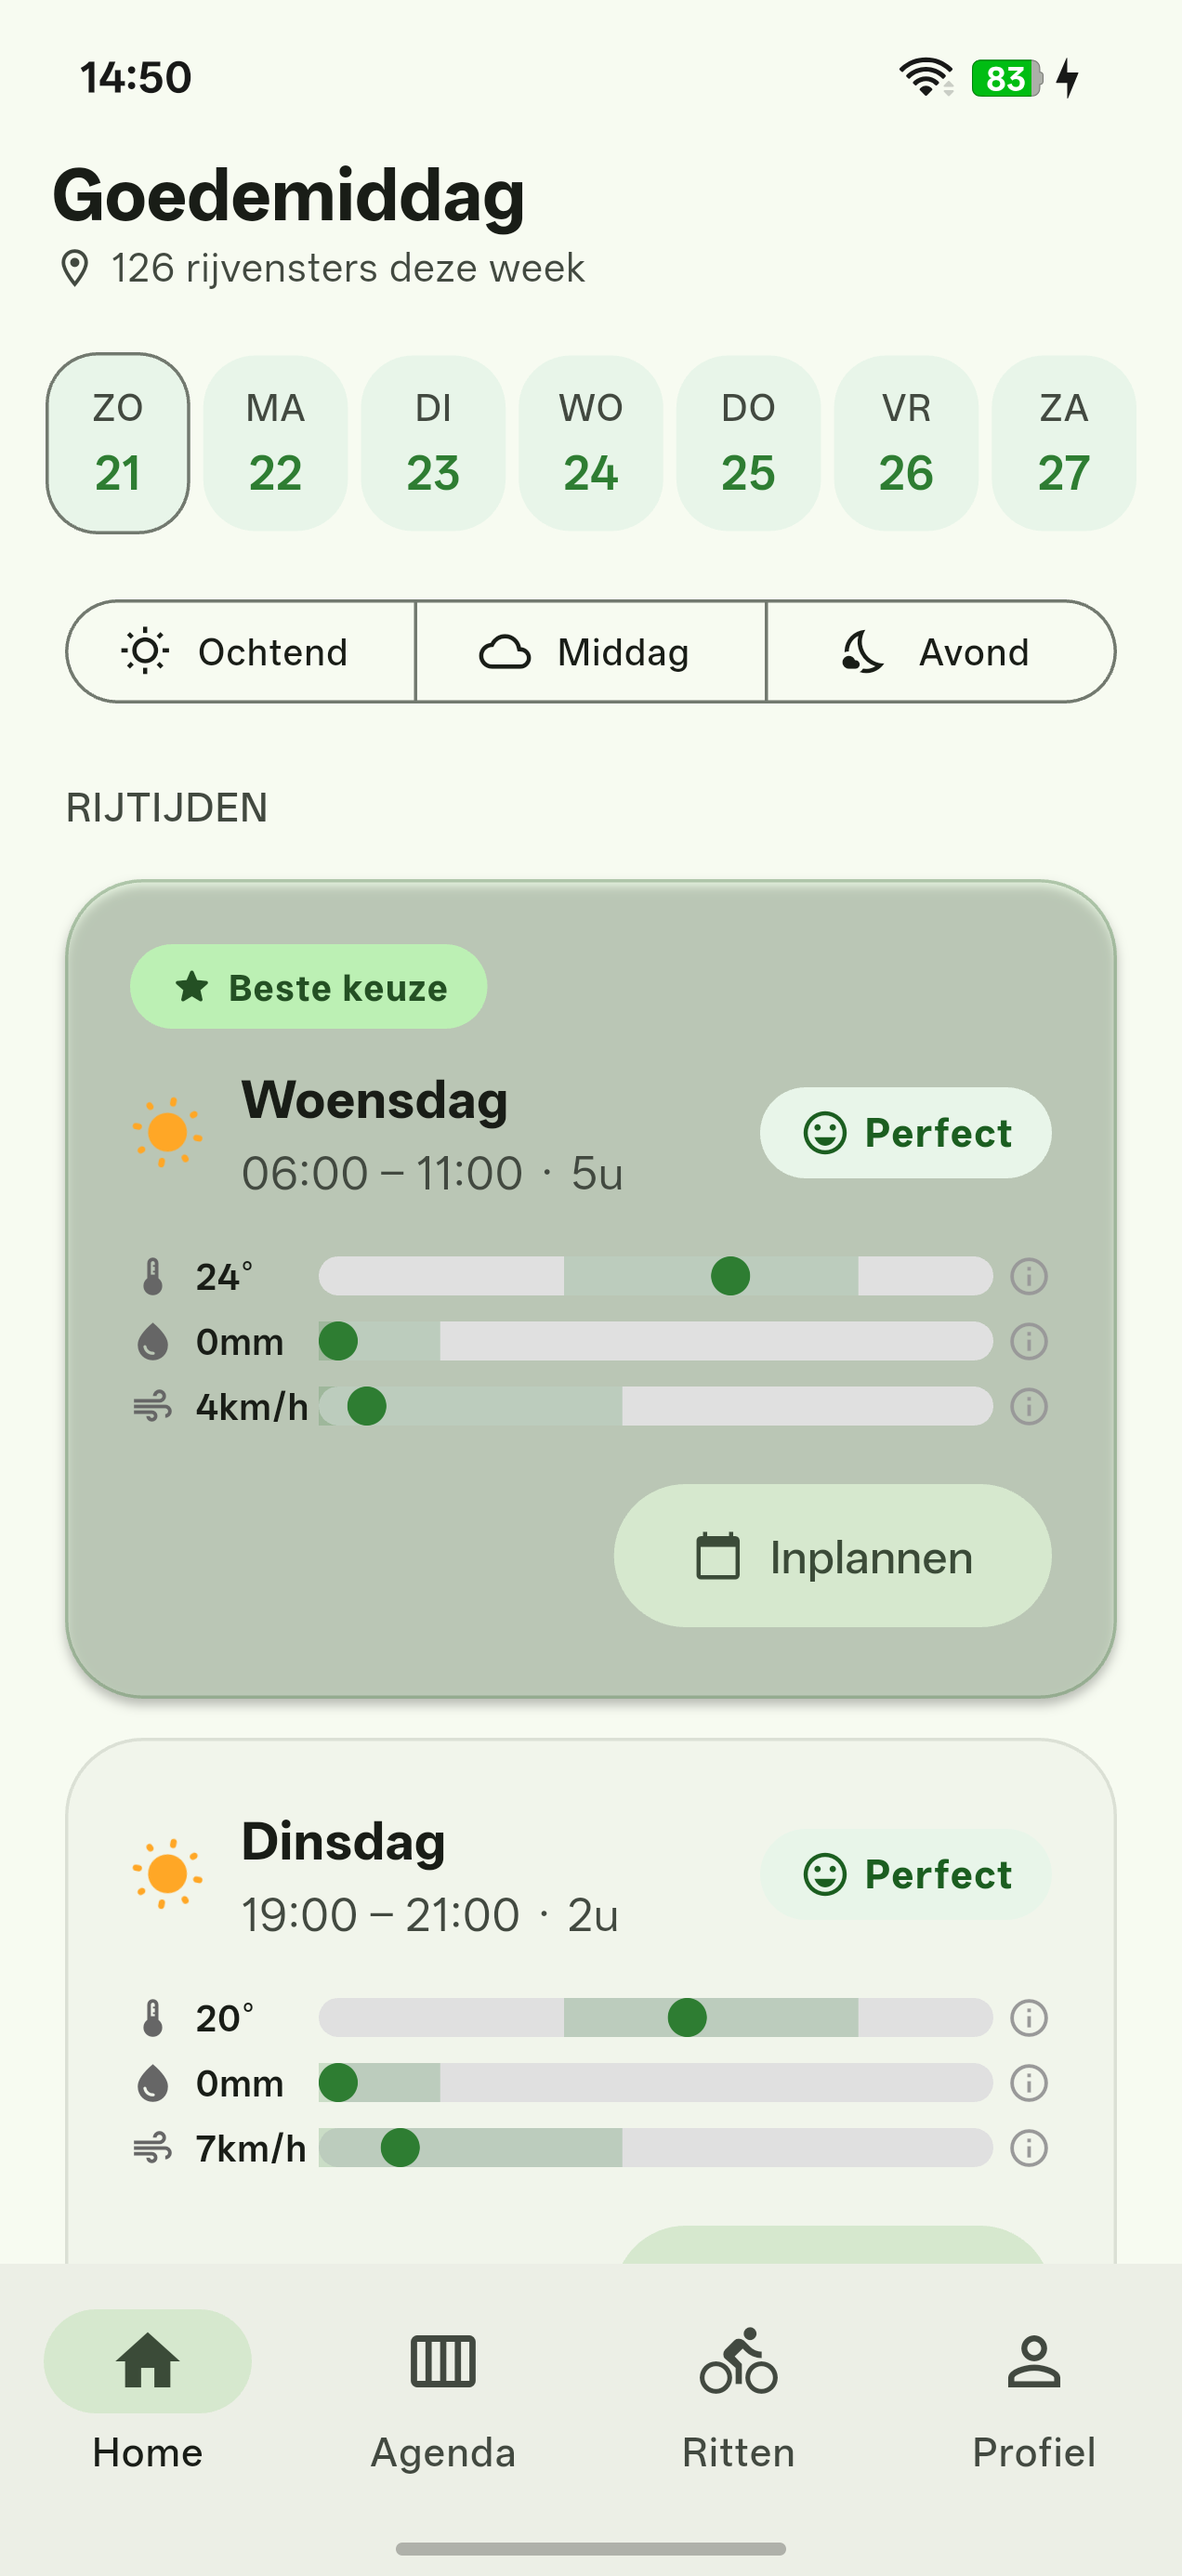
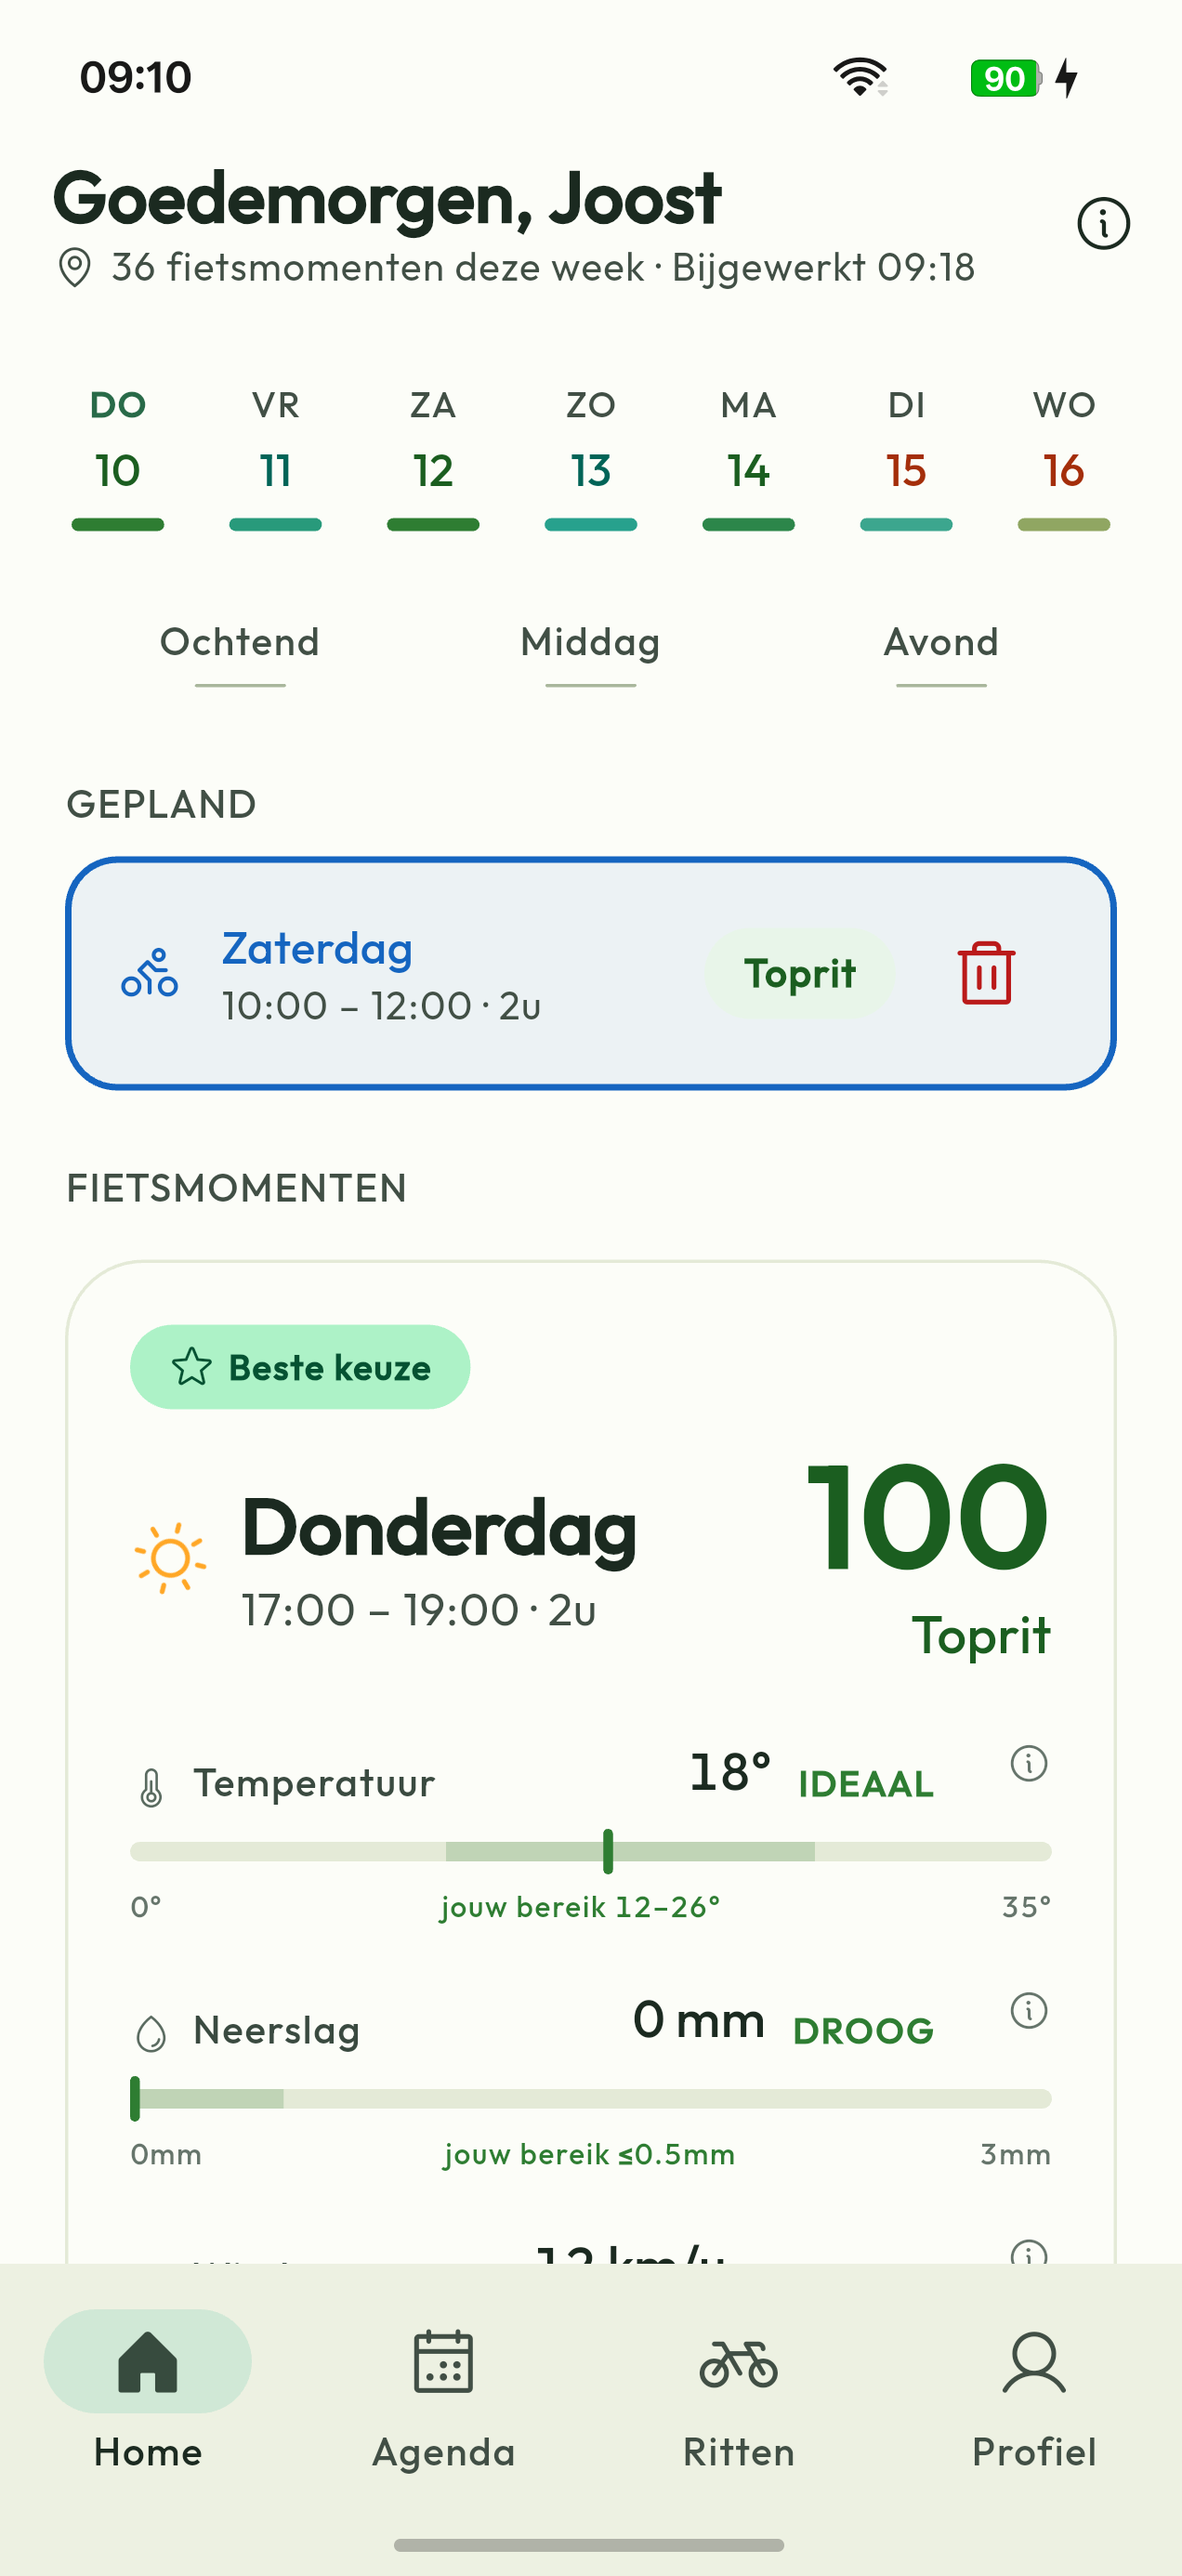
docs(store): nieuwe screenshots en bijgewerkte winkelteksten voor 1.0.30
De screenshots in de Play-listing waren van 21 juni en toonden een app die niet
meer bestaat: smileys op de badges, dichtgroene kaarten, een dagenrij met
Ochtend/Middag/Avond, een kopje "RIJTIJDEN". Allemaal verdwenen in v4.0. Wie dat
in de winkel zag en de app opende, herkende hem niet.

Vijf nieuwe opnames, gemaakt vanaf de Oppo op 1.0.30 (1272x2772), met de
statusbalk schoongezet via systemui demo-mode zodat er geen persoonlijke
meldingen in beeld staan.

De teksten waren even oud. Ze noemden "Zaterdag 09:00-13:00 - Perfect" terwijl
dat oordeel sinds vandaag Toprit heet, zwegen over het daglicht, en wisten niets
van samen fietsen. Beide talen herschreven; de korte omschrijving noemt nu
daglicht.

Twee dingen die alleen in de Console kunnen en dus open blijven staan:
het app-icoon in de listing is nog een plaatsaanduiding (een kalender met een
potlood) terwijl het echte icoon al in docs/ ligt, en de feature graphic is ook
nog van 21 juni.

Claude-Session: https://claude.ai/code/session_017d5V8eDvpuBdKFuqerLkAT

diff --git a/docs/store-listing.md b/docs/store-listing.md
@@ -1,46 +1,90 @@
 # Play Store Listing — RideWindow
 
+> Bijgewerkt 2026-09-10 voor 1.0.30. De vorige versie noemde nog
+> "Zaterdag 09:00–13:00 — Perfect", kende het daglicht niet en zweeg over
+> samen fietsen.
+
 ## Short description (max 80 characters)
 
-**EN:** Find your perfect cycling windows based on weather and your schedule.
-**NL:** Vind het perfecte fietsmoment op basis van weer en je agenda.
+**NL:** Wanneer kun je deze week het best fietsen? Weer, daglicht en jouw agenda. *(73)*
+**EN:** When's the best time to ride this week? Weather, daylight and your schedule. *(75)*
 
 ## Full description
 
-### English
-
-Stop checking three apps to decide when to ride. RideWindow combines an accurate cycling-specific weather score with your personal availability to show you the best time slots to get on your bike this week.
-
-How it works:
-- Set your weekly availability (or connect Google Calendar)
-- RideWindow scores every available hour on temperature, rain chance, and wind
-- You get concrete ride windows: "Saturday 09:00–13:00 — Perfect"
-
-What makes it different:
-- Weather scoring built for cyclists, not hikers or runners
-- No vague "nice weather" — you get a clear score and time slot
-- See your entire week at a glance
-- Clothing tip so you know what to wear
-- Works offline after first load
-- No account needed, no ads, no tracking
-
-RideWindow is for the casual cyclist who rides when the weather allows. Open the app, pick your window, ride.
-
 ### Nederlands
 
-Stop met het checken van drie apps om te beslissen wanneer je gaat fietsen. RideWindow combineert een nauwkeurige fiets-specifieke weerscore met je persoonlijke beschikbaarheid om de beste fietsmomenten van de week te tonen.
+Stop met drie apps openen om te bepalen wanneer je gaat fietsen. RideWindow legt
+een fiets-specifieke weerscore naast jouw beschikbaarheid en laat zien wanneer je
+deze week het best op de fiets stapt.
 
 Hoe het werkt:
-- Stel je wekelijkse beschikbaarheid in (of koppel Google Agenda)
-- RideWindow scoort elk beschikbaar uur op temperatuur, regenkans en wind
-- Je krijgt concrete fietsvensters: "Zaterdag 09:00–13:00 — Perfect"
+- Stel je week in, of koppel Google Agenda
+- Elk vrij uur krijgt een score op temperatuur, regen, wind én daglicht
+- Je krijgt concrete fietsmomenten: "Zaterdag 10:00–12:00 — Toprit"
 
 Wat het anders maakt:
-- Weerscore speciaal voor fietsers, niet voor wandelaars of hardlopers
-- Geen vaag "mooi weer" — je krijgt een duidelijke score en tijdslot
-- Bekijk je hele week in een oogopslag
-- Kledingtip zodat je weet wat je aan moet
-- Werkt offline na eerste keer laden
-- Geen account nodig, geen advertenties, geen tracking
+- Een weerscore die voor fietsers is gemaakt, niet voor wandelaars of hardlopers
+- Geen vaag "mooi weer", maar een oordeel: Toprit, Fijne rit, Te doen of Binnenblijver
+- Daglicht telt mee. Een venster dat na zonsondergang valt is geen topmoment,
+  en jij bepaalt zelf hoe zwaar donker weegt
+- Je hele week in één blik, per uur
+- Wat je aan moet, op basis van de gevoelstemperatuur
+- Windadvies: welke kant je heen rijdt om met de wind mee terug te komen
+- Samen fietsen kan: nodig een maatje uit voor je rit en jullie zien elkaars plannen
+- Werkt offline na de eerste keer laden
+- Werkt zonder account. Inloggen kan, en zet je instellingen dan op al je
+  toestellen — maar het hoeft niet
+- Geen advertenties, geen tracking
 
-RideWindow is voor de recreatieve fietser die rijdt als het weer het toelaat. Open de app, kies je venster, fiets.
+RideWindow is voor de recreatieve fietser die rijdt als het weer het toelaat.
+Open de app, kies je moment, fiets.
+
+### English
+
+Stop opening three apps to work out when to ride. RideWindow puts a
+cycling-specific weather score next to your own availability and shows you the
+best time to get on the bike this week.
+
+How it works:
+- Set up your week, or connect Google Calendar
+- Every free hour is scored on temperature, rain, wind and daylight
+- You get concrete ride windows: "Saturday 10:00–12:00 — Top ride"
+
+What makes it different:
+- A weather score built for cyclists, not hikers or runners
+- No vague "nice weather" — a verdict: Top ride, Good ride, Doable or Indoor day
+- Daylight counts. A window that falls after sunset is not a top moment, and you
+  decide how much darkness weighs
+- Your whole week at a glance, hour by hour
+- What to wear, based on how cold it will actually feel
+- Wind advice: which way to head out so the wind is behind you coming home
+- Ride together: invite a buddy to your ride and you'll see each other's plans
+- Works offline after the first load
+- Works without an account. Signing in syncs your settings across devices —
+  but it is optional
+- No ads, no tracking
+
+RideWindow is for the casual cyclist who rides when the weather allows. Open the
+app, pick your window, ride.
+
+## Screenshots
+
+Gemaakt op 2026-09-10 vanaf een Oppo PLG110 op 1.0.30, 1272×2772 (ratio 2,18 —
+binnen wat Play accepteert). Statusbalk via systemui demo-mode schoongezet, dus
+geen persoonlijke meldingen in beeld.
+
+| Bestand | Wat het toont |
+|---|---|
+| `01_home.png` | Home met de nieuwe taal: "36 fietsmomenten deze week", GEPLAND, en het oordeel **Toprit** |
+| `02_detail.png` | Ritdetail met **Daglicht — 120 min, volledig licht** en het kledingadvies. De sterkste van de vijf |
+| `03_agenda.png` | Weekraster met de legenda Toprit / Fijne rit / Te doen / Binnenblijver / Gepland |
+| `04_profiel.png` | De vierde schuif: daglicht, "Telt half mee" |
+| `05_ritten.png` | Rittenlijst met de rol per rit ("Alleen jij") en het tabblad **Peloton** |
+
+## Nog open in de Play Console
+
+- **Het app-icoon in de listing is een plaatsaanduiding** — een kalender met een
+  potlood. Het echte icoon staat in `docs/play-store-icon-512.png` en moet nog
+  geüpload worden. De app zelf gebruikt het al.
+- **`docs/feature-graphic.png` is van 21 juni** en toont dus dezelfde verouderde
+  app als de oude screenshots.
